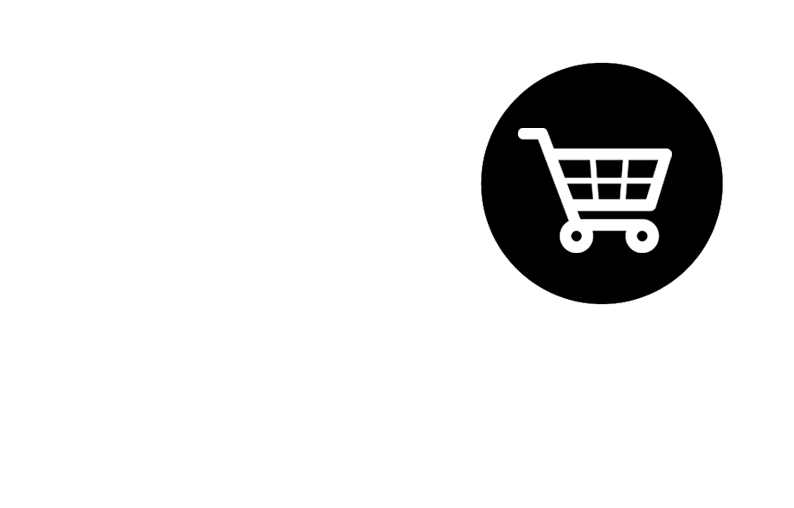
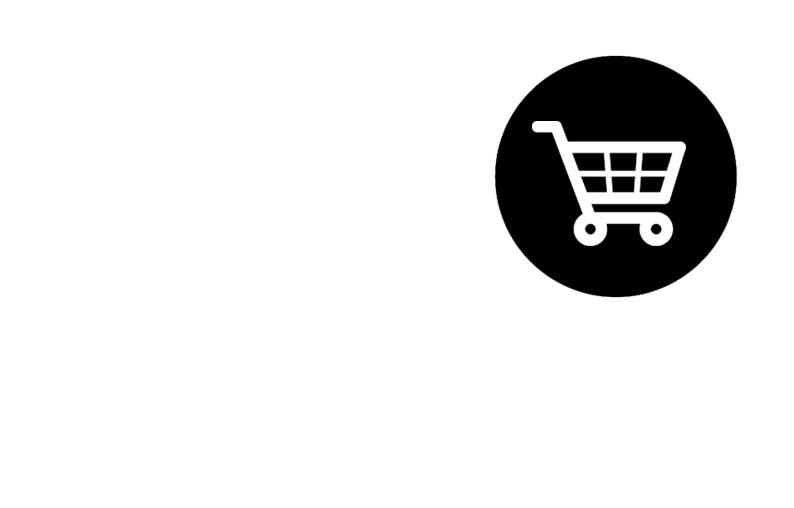
Add files via upload

Changed region(s): [[0.6045, 0.0886, 0.937, 0.6201], [0.665, 0.1476, 0.6952, 0.1772]]

diff --git a/tienda_movil.html b/tienda_movil.html
@@ -70,7 +70,7 @@ body {
             <p align="center"><img src="dfeafew.png" width="794" height="230"></p>
             <p align="center">&nbsp;</p>
             <p align="center"><img src="t54y54y.png" width="794" height="200"></p>
-            <p align="center"><img src="nghjgdhfgt.jpg" width="794" height="794" usemap="#Map5" border="0"></p>
+            <p align="center"><img src="../2024 ElVientoDeNoviembre.com/nghjgdhfgt.jpg" width="794" height="794" usemap="#Map5" border="0"></p>
             <p align="center"><img src="f4fwfew.png" width="794" height="200" usemap="#Map2MapMap" border="0"></p>
             <p align="center">&nbsp;</p>
             <p align="center">
@@ -219,5 +219,5 @@ body {
 </map>
 
   <map name="Map5">
-    <area shape="circle" coords="594,180,122" href="https://beatclap.es/crudologia-msj9j3">
+    <area shape="circle" coords="615,180,122" href="https://beatclap.es/crudologia-msj9j3">
   </map>
